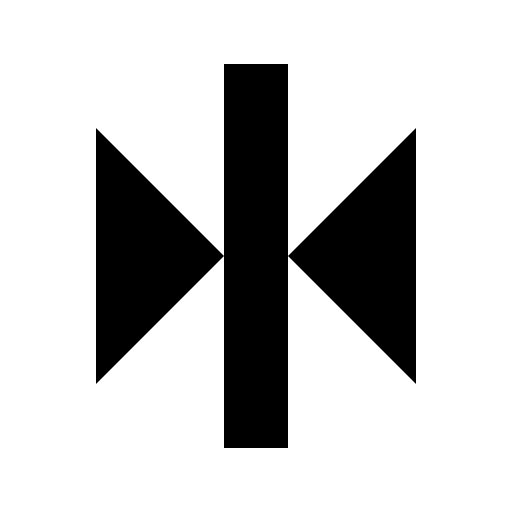
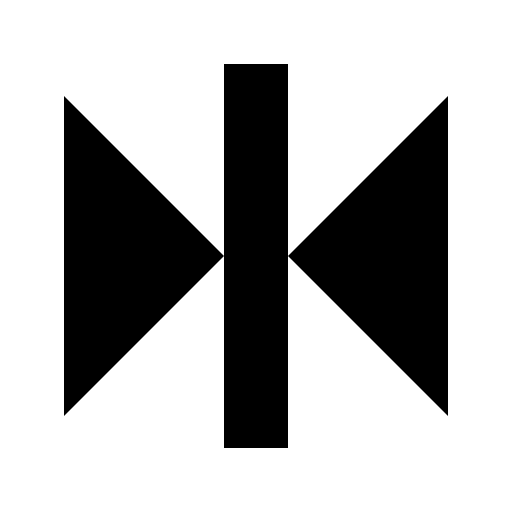
flip tool

Changed region(s): [[0.8125, 0.1875, 0.875, 0.8125], [0.125, 0.1875, 0.1875, 0.8125]]

diff --git a/index.html b/index.html
@@ -134,45 +134,45 @@
       <div class="bar" id="bottomBar">
         <div class="toolbar">
           <div class="toolbarRow">
-            <button class="shapeButton" id="RECT_Button" onclick="setTool('RECT')"><img src="assets/square.png"></button>
-            <button class="shapeButton" id="WEDGE_Button" onclick="setTool('WEDGE')"><img src="assets/wedge.png"></button>
+            <button class="shapeButton" id="RECT_Button" onclick="setTool('RECT')"><img src="assets/square.png" alt="rect tool"></button>
+            <button class="shapeButton" id="WEDGE_Button" onclick="setTool('WEDGE')"><img src="assets/wedge.png" alt="wedge tool"></button>
             <!-- <button class="shapeButton" id="ELLIPSE_Button" onclick="setTool('ELLIPSE')"><img src="assets/circle.png"></button> -->
-            <button class="shapeButton" id="QUADRANT_Button" onclick="setTool('QUADRANT')"><img src="assets/quadrant.png"></button>
-            <button class="shapeButton" id="INVERSE_QUADRANT_Button" onclick="setTool('INVERSE_QUADRANT')"><img src="assets/inverse-quadrant.png"></button>
-            <button class="shapeButton" id="BEZIER_WEDGE_Button" onclick="setTool('BEZIER_WEDGE')"><img src="assets/bezier-wedge.png"></button>
-            <button class="shapeButton" id="LINE_Button" onclick="setTool('LINE')"><img src="assets/line.png"></button>
-            <button class="shapeButton" id="CURVE_Button" onclick="setTool('CURVE')"><img src="assets/curve.png"></button>
-            <button id="ERASE_Button" onclick="setTool('ERASE')"><img src="assets/erase.png"></button>
-            <button id="PAINT_Button" onclick="setTool('PAINT')"><img src="assets/fill.png"></button>
-            <button id="SELECT_Button" onclick="setTool('SELECT')"><img src="assets/select.png"></button>
-            <button onclick="toggleMenu('toolSettings', this)"><img src="assets/gear.png"></button>
+            <button class="shapeButton" id="QUADRANT_Button" onclick="setTool('QUADRANT')"><img src="assets/quadrant.png" alt="quadrant tool"></button>
+            <button class="shapeButton" id="INVERSE_QUADRANT_Button" onclick="setTool('INVERSE_QUADRANT')"><img src="assets/inverse-quadrant.png" alt="inverse quadrant tool"></button>
+            <button class="shapeButton" id="BEZIER_WEDGE_Button" onclick="setTool('BEZIER_WEDGE')"><img src="assets/bezier-wedge.png" alt="wedge tool"></button>
+            <button class="shapeButton" id="LINE_Button" onclick="setTool('LINE')"><img src="assets/line.png" alt="line tool"></button>
+            <button class="shapeButton" id="CURVE_Button" onclick="setTool('CURVE')"><img src="assets/curve.png" alt="curve tool"></button>
+            <button id="ERASE_Button" onclick="setTool('ERASE')"><img src="assets/erase.png" alt="erase tool"></button>
+            <button id="PAINT_Button" onclick="setTool('PAINT')"><img src="assets/fill.png" alt="fill tool"></button>
+            <button id="SELECT_Button" onclick="setTool('SELECT')"><img src="assets/select.png" alt="select tool"></button>
+            <button onclick="toggleMenu('toolSettings', this)"><img src="assets/gear.png" alt="tool settings"></button>
           </div>
           <div class="toolbarRow">
-            <button id="paletteButton" onclick="toggleMenu('paletteSettings', this)"><img src="assets/palette.png"></button>
-            <button id="EYEDROP_Button" onclick="setTool('EYEDROP')"><img src="assets/eye-dropper.png"></button>
+            <button id="paletteButton" onclick="toggleMenu('paletteSettings', this)"><img src="assets/palette.png" alt="palette"></button>
+            <button id="EYEDROP_Button" onclick="setTool('EYEDROP')"><img src="assets/eye-dropper.png" alt="color select tool"></button>
             <span id="colorPalette" style="flex-grow: 4;"></span>
             <input type="color" id="colorPicker" value="#ff0000" onchange="setColor(this.value)">
           </div>
         </div>
         <div class="extraBar">
           <div class="toolbarRow" style="display:none;" id="pasteTools">
-            <button onclick="clearClipboard()"><img src="assets/cancel.png"></button>
-            <button onclick="paste()"><img src="assets/paste.png"></button>
+            <button onclick="clearClipboard()"><img src="assets/cancel.png" alt="clear clipboard"></button>
+            <button onclick="paste()"><img src="assets/paste.png" alt="paste"></button>
           </div>
           <div class="toolbarRow" style="display:none;" id="selectionTools">
-            <button onclick="cancelSelection()"><img src="assets/cancel.png"></button>
-            <button onclick="groupSelection()"><img src="assets/group.png"></button>
-            <button onclick="ungroupSelection()"><img src="assets/ungroup.png"></button>
-            <button onclick="copySelection()"><img src="assets/copy.png"></button>
+            <button onclick="cancelSelection()"><img src="assets/cancel.png" alt="cancel"></button>
+            <button onclick="groupSelection()"><img src="assets/group.png" alt="group"></button>
+            <button onclick="ungroupSelection()"><img src="assets/ungroup.png" alt="ungroup"></button>
+            <button onclick="copySelection()"><img src="assets/copy.png" alt="copy"></button>
             <!-- <button disabled onclick="rotateSelection(1)"><img src="assets/rotate.png"></button>
-            <button disabled onclick="rotateSelection(-1)"><img src="assets/rotate-reverse.png"></button>
-            <button disabled><img src="assets/reflect-horizontal.png"></button>
-            <button disabled><img src="assets/reflect-vertical.png"></button> -->
-            <button onclick="backSelection()"><img src="assets/bottom.png"></button>
-            <button onclick="frontSelection()"><img src="assets/top.png"></button>
-            <button onclick="eraseSelection()"><img src="assets/erase.png"></button>
+            <button disabled onclick="rotateSelection(-1)"><img src="assets/rotate-reverse.png"></button> -->
+            <button onclick="flipSelection(true, false)"><img src="assets/flip_horizontal.png" alt="flip horizontally"></button>
+            <button onclick="flipSelection(false, true)"><img src="assets/flip_vertical.png" alt="flip vertically"></button>
+            <button onclick="backSelection()"><img src="assets/bottom.png" alt="move to back"></button>
+            <button onclick="frontSelection()"><img src="assets/top.png" alt="move to front"></button>
+            <button onclick="eraseSelection()"><img src="assets/erase.png" alt="erase"></button>
             <span id="bezierControls">
-              <button id="BEZIER_Button" onclick="setTool('BEZIER')"><img src="assets/bezier.png"></button>
+              <button id="BEZIER_Button" onclick="setTool('BEZIER')"><img src="assets/bezier.png" alt="modify bezier"></button>
             </span>
           </div>
           <div class="toolbarRow" style="display:none;" id="lineTools">

diff --git a/scripts/tools.js b/scripts/tools.js
@@ -80,15 +80,11 @@ class DraggableTool extends Tool {
         return this.layer.toLCF(mouseY) - this.startY;
     }
     startEndEqual() {
-        return this.getStartX() == this.getStartY() && this.getEndX() == this.getEndY();
+        return this.startX == this.endX && this.startY == this.endY;
     }
-    onMousePressed(maker, mouseX, mouseY, mouseMoving) {
+    onMousePressed(maker, mouseX, mouseY) {
         this.clickMouseX = mouseX;
         this.clickMouseY = mouseY;
-        if(mouseMoving) {
-            this.dragging = true;
-            this.setStart(mouseX, mouseY);
-        }
     }
     onMouseReleased(maker, mouseX, mouseY) {
         this.dragging = false;
@@ -148,15 +144,15 @@ class ShapeTool extends DraggableTool {
             this.shapeType.drawRaw(this.getStartX(), this.getStartY(), this.getEndX(), this.getEndY(), this.rotation, this.layer);
         }
     }
-    onMousePressed(maker, mouseX, mouseY, mouseMoving) {
-        super.onMousePressed(maker, mouseX, mouseY, mouseMoving);
+    onMousePressed(maker, mouseX, mouseY) {
+        super.onMousePressed(maker, mouseX, mouseY);
         if(Tool.DRAG_MODE == Tool.DRAG_MODE_OPTIONS.DRAW) {
             this.place(maker, this.getStartX(), this.getStartY(), this.getEndX(), this.getEndY(), this.rotation, maker.getColor(), this.layer);
             maker.submitActions();
         }
     }
-    onMouseReleased(maker, mouseX, mouseY, mouseMoving) {
-        super.onMouseReleased(maker, mouseX, mouseY, mouseMoving);
+    onMouseReleased(maker, mouseX, mouseY) {
+        super.onMouseReleased(maker, mouseX, mouseY);
         if(Tool.DRAG_MODE == Tool.DRAG_MODE_OPTIONS.AREA) {
             this.place(maker, this.getStartX(), this.getStartY(), this.getEndX(), this.getEndY(), this.rotation, maker.getColor(), this.layer);
             maker.submitActions();
@@ -286,8 +282,8 @@ class LineTool extends ShapeTool {
     onDisable(maker) {
         document.getElementById("lineTools").style.display = "none";
     }
-    onMouseReleased(maker, mouseX, mouseY, mouseMoving) {
-        super.onMouseReleased(maker, mouseX, mouseY, mouseMoving);
+    onMouseReleased(maker, mouseX, mouseY) {
+        super.onMouseReleased(maker, mouseX, mouseY);
         this.place(maker, this.getStartX(), this.getStartY(), this.getEndX(), this.getEndY(), 0, maker.getColor(), this.layer);
         maker.submitActions();
     }
@@ -364,7 +360,7 @@ class EraseTool extends DraggableTool {
         super("ERASE");
     }
     drawBefore(maker, mouseX, mouseY) {
-        if(Tool.DRAG_MODE != Tool.DRAG_MODE_OPTIONS.AREA || maker.startEndEqual()) {
+        if(Tool.DRAG_MODE != Tool.DRAG_MODE_OPTIONS.AREA || this.startEndEqual()) {
             maker.firstCollidingInSelection(mouseX, mouseY, (tile) => {
                 if(tile.drawOutlineBefore) {
                     noFill();
@@ -392,8 +388,8 @@ class EraseTool extends DraggableTool {
             });
         }
     }
-    onMousePressed(maker, mouseX, mouseY, mouseMoving) {
-        super.onMousePressed(maker, mouseX, mouseY, mouseMoving);
+    onMousePressed(maker, mouseX, mouseY) {
+        super.onMousePressed(maker, mouseX, mouseY);
         if(Tool.DRAG_MODE == Tool.DRAG_MODE_OPTIONS.DRAW) {
             maker.firstCollidingInSelection(mouseX, mouseY, (tile) => {
                 maker.addAction(new RemoveTileAction(tile));
@@ -409,7 +405,7 @@ class EraseTool extends DraggableTool {
             });
         }
     }
-    onMouseReleased(maker, mouseX, mouseY, mouseMoving) {
+    onMouseReleased(maker, mouseX, mouseY) {
         if(Tool.DRAG_MODE == Tool.DRAG_MODE_OPTIONS.AREA) {
             if(!this.dragging) {
                 maker.firstCollidingInSelection(mouseX, mouseY, (tile) => {
@@ -427,7 +423,7 @@ class EraseTool extends DraggableTool {
                 });
             }
         }
-        super.onMouseReleased(maker, mouseX, mouseY, mouseMoving);
+        super.onMouseReleased(maker, mouseX, mouseY);
     }
 }
 
@@ -436,7 +432,7 @@ class PaintTool extends DraggableTool {
         super("PAINT");
     }
     drawBefore(maker, mouseX, mouseY) {
-        if(Tool.DRAG_MODE != Tool.DRAG_MODE_OPTIONS.AREA || maker.startEndEqual()) {
+        if(Tool.DRAG_MODE != Tool.DRAG_MODE_OPTIONS.AREA || this.startEndEqual()) {
             maker.firstCollidingInSelection(mouseX, mouseY, (tile) => {
                 if(tile.drawOutlineBefore) {
                     noFill();
@@ -481,7 +477,7 @@ class PaintTool extends DraggableTool {
     }
     onMouseReleased(maker, mouseX, mouseY) {
         if(Tool.DRAG_MODE == Tool.DRAG_MODE_OPTIONS.AREA) {
-            if(maker.startEndEqual()) {
+            if(this.startEndEqual()) {
                 maker.firstCollidingInSelection(mouseX, mouseY, (tile) => {
                     maker.addAction(new ModifyTileAction(tile.ID, "color", tile.color, maker.getColor()));
                     maker.submitActions();
@@ -498,7 +494,7 @@ class PaintTool extends DraggableTool {
                 maker.submitActions();
             }
         }
-        super.onMouseReleased(maker, mouseX, mouseY, mouseMoving);
+        super.onMouseReleased(maker, mouseX, mouseY);
     }
 }
 
@@ -566,7 +562,7 @@ class SelectTool extends DraggableTool {
                     }
                     maker.cancelSelection();
                 }
-                if(maker.startEndEqual()) {
+                if(this.startEndEqual()) {
                     maker.firstColliding(mouseX, mouseY, (tile) => {
                         maker.getOrCreateSelection().add(tile);
                     });
@@ -585,7 +581,7 @@ class SelectTool extends DraggableTool {
                 }
             }
         }
-        super.onMouseReleased(maker, mouseX, mouseY, mouseMoving);
+        super.onMouseReleased(maker, mouseX, mouseY);
     }
     increaseStrokeWeight() {
         for(let tile of this.maker.getSelection().tiles) {

diff --git a/scripts/shapes.js b/scripts/shapes.js
@@ -299,6 +299,12 @@ class TileLike extends IDObject {
     fitsWithin(sX, sY, eX, eY) {
         throw new Error("Not implemented");
     }
+    flip(bounds, h, v) {
+        throw new Error("Not implemented");
+    }
+    getBounds() {
+        throw new Error("Not implemented");
+    }
 }
 
 class Group extends TileLike {
@@ -415,7 +421,7 @@ class Group extends TileLike {
                 }
             }
         }
-        return [minX, minY, maxX, maxY];
+        return {startX: minX, startY: minY, endX: maxX, endY: maxY};
     }
     drawOutline(offsetX, offsetY) {
         let [minX, minY, maxX, maxY] = this.getBounds();
@@ -508,6 +514,39 @@ class Tile extends TileLike {
     }
     fitsWithin(sX, sY, eX, eY) {
         return this.startX >= sX && this.startY >= sY && this.endX <= eX && this.endY <= eY;
+    }
+    flip(bounds, h, v) {
+        if(!this.ignoreRotation) {
+            if(v) {
+                switch(this.rotation) {
+                    case 0: this.rotation = 3; break;
+                    case 1: this.rotation = 2; break;
+                    case 2: this.rotation = 1; break;
+                    case 3: this.rotation = 0; break;
+                }
+            }
+            if(h) {
+                switch(this.rotation) {
+                    case 0: this.rotation = 1; break;
+                    case 1: this.rotation = 0; break;
+                    case 2: this.rotation = 3; break;
+                    case 3: this.rotation = 2; break;
+                }
+            }
+        }
+        if(h) {
+            let sX = this.startX;
+            this.startX = bounds.endX - (this.endX - bounds.startX);
+            this.endX = bounds.endX - (sX - bounds.startX);
+        }
+        if(v) {
+            let sY = this.startY;
+            this.startY = bounds.endY - (this.endY - bounds.startY);
+            this.endY = bounds.endY - (sY - bounds.startY);
+        }
+    }
+    getBounds() {
+        return {startX: this.startX, startY: this.startY, endX: this.endX, endY: this.endY};
     }
 }
 
@@ -954,6 +993,22 @@ class LineTile extends Tile {
     drawOutline(offsetX, offsetY) {
         strokeWeight(this.getStrokeWeight()+10);
         LineTile.drawRaw(this.startX+offsetX, this.startY+offsetY, this.endX+offsetX, this.endY+offsetY, this.rotation, this.getLayer());
+    }
+    getBounds() {
+        let bounds = {startX: min(this.startX, this.endX), startY: min(this.startY, this.endY), endX: max(this.startX, this.endX), endY: max(this.startY, this.endY)};
+        bounds.endX = max(bounds.endX - 1, bounds.startX);
+        bounds.endY = max(bounds.endY - 1, bounds.startY);
+        return bounds;
+    }
+    flip(bounds, h, v) {
+        if(h) {
+            this.startX = bounds.endX - (this.startX - bounds.startX) + 1;
+            this.endX = bounds.endX - (this.endX - bounds.startX) + 1;
+        }
+        if(v) {
+            this.startY = bounds.endY - (this.startY - bounds.startY) + 1;
+            this.endY = bounds.endY - (this.endY - bounds.startY) + 1;
+        }
     }
 }
 

diff --git a/scripts/actions.js b/scripts/actions.js
@@ -410,18 +410,30 @@ class ResizeCanvasAction extends Action {
 }
 
 class FlipSelectionAction extends Action {
-    constructor(horizontal, vertical) {
+    constructor(selection, horizontal, vertical) {
         super("FLIP");
+        this.selectionIDs = selection.tiles.map(t => t.ID);
         this.horizontal = horizontal;
         this.vertical = vertical;
+        this.bounds = selection.tiles.reduce((a, t) => {
+            let bounds = t.getBounds();
+            if(a == undefined) {
+                return bounds;
+            }
+            return {startX: min(a.startX, bounds.startX), startY: min(a.startY, bounds.startY), endX: max(a.endX, bounds.endX), endY: max(a.endY, bounds.endY)};
+        }, undefined);
     }
     toString() {
         return `${this.name} ${this.horizontal} ${this.vertical}`;
     }
     run() {
-
+        this.selectionIDs.forEach(id => {
+            ID.withObject(id, object => {
+                object.flip(this.bounds, this.horizontal, this.vertical);
+            });
+        });
     }
     undo() {
-        
+        this.run();
     }
 }

diff --git a/scripts/maker.js b/scripts/maker.js
@@ -108,7 +108,7 @@ class Maker {//TODO split into maker and canvas
         }
         if(insideCanvas(mouseX, mouseY) && focused) {
             if(mousePressed && !this.pMousePressed) {
-                this.currentTool.onMousePressed(this, mouseX, mouseY, mouseX != this.pMouseX || mouseY != this.pMouseY);
+                this.currentTool.onMousePressed(this, mouseX, mouseY);
             }
             if(!mousePressed && this.pMousePressed) {
                 this.currentTool.onMouseReleased(this, mouseX, mouseY);
@@ -360,6 +360,10 @@ class Maker {//TODO split into maker and canvas
         } else {
 
         }
+    }
+    flipSelection(h, v) {
+        this.addAction(new FlipSelectionAction(this.selection, h, v));
+        this.submitActions();
     }
     eraseSelection() {
         this.selection.erase(this);

diff --git a/scripts/sketch.js b/scripts/sketch.js
@@ -231,6 +231,10 @@ function copySelection() {
     maker.copySelection();
 }
 
+function flipSelection(h, v) {
+    maker.flipSelection(h, v);
+}
+
 function clearClipboard() {
     maker.clearClipboard();
 }
